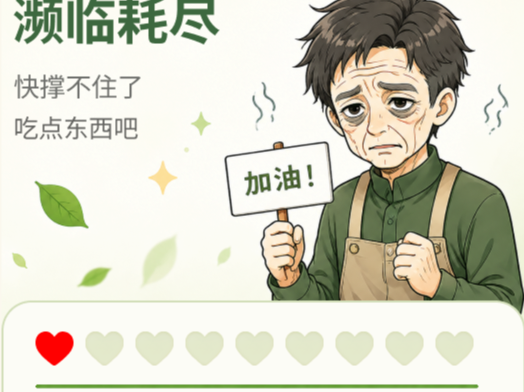
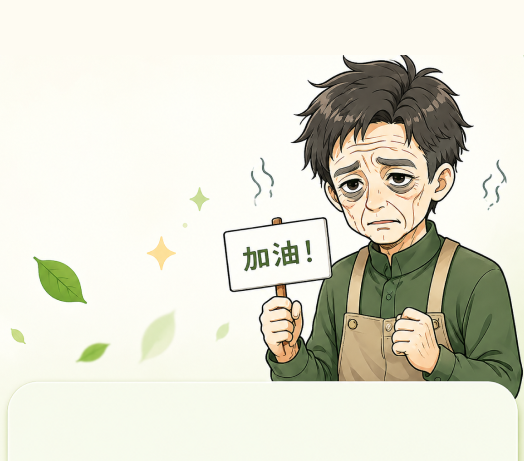
fix(stage2): critical band 专属 ip mascot（524×416 + 加油小牌）

diff --git a/app/src/components/home/HomeStage2.tsx b/app/src/components/home/HomeStage2.tsx
@@ -1,13 +1,13 @@
-import { ScrollView, View, Image, Text } from "react-native";
-import { SafeAreaView } from "react-native-safe-area-context";
-import { useRouter } from "expo-router";
-import { useStore } from "@src/store/useStore";
-import HpHeartsContent from "@src/components/ui/HpHeartsContent";
-import WeightCard from "@src/components/ui/WeightCard";
 import HomeMealStatusSlot from "@src/components/home/HomeMealStatusSlot";
 import HomeRecordsSection from "@src/components/home/HomeRecordsSection";
+import HpHeartsContent from "@src/components/ui/HpHeartsContent";
+import WeightCard from "@src/components/ui/WeightCard";
+import { useStore } from "@src/store/useStore";
 import { getHpBand } from "@src/theme/hp";
 import { colors } from "@src/theme/tokens";
+import { useRouter } from "expo-router";
+import { Image, ScrollView, Text, View } from "react-native";
+import { SafeAreaView } from "react-native-safe-area-context";
 
 // Stage 2 主页（v0.4 §11.B）：状态区 / HP 心形 / 体重 / 倒计时 / 今日记录
 // 本屏纯组装，所有 UI 模块抽到 src/components/ui/。
@@ -40,17 +40,34 @@ export default function HomeStage2() {
             }}
           >
             {/* mascot 缩到原始 90%：宽度 hero 90% + 右下贴底（hero 容器 aspectRatio 不动） */}
-            <Image
-              source={band.mascot}
+            <View
               style={{
                 position: "absolute",
+                left: 0,
                 right: 0,
-                bottom: 0,
-                width: "90%",
-                aspectRatio: band.mascotAspect,
+                top: 0,
+                // bottom: 0,
+                justifyContent: "center",
+                alignItems: "center",
               }}
-              resizeMode="contain"
-            />
+            >
+              <View
+                style={{
+                  width: "100%",
+                  aspectRatio: band.mascotAspect,
+                  transform: [{ translateY: 0 }],
+                }}
+              >
+                <Image
+                  source={band.mascot}
+                  style={{
+                    width: "100%",
+                    height: "100%",
+                  }}
+                  resizeMode="contain"
+                />
+              </View>
+            </View>
             {/* 文字 overlay 左上 */}
             <View
               style={{

diff --git a/app/src/theme/hp.ts b/app/src/theme/hp.ts
@@ -43,7 +43,7 @@ export const HP_BANDS: readonly HpBandSpec[] = [
     min: 0, max: 19, key: "critical",
     title: "濒临耗尽", subtitle: "快撑不住了", hint: "吃点东西吧",
     mascot: require("../../assets/mascot/critical.png"),
-    mascotAspect: 524 / 392, // sips 裁出，Figma 没单独 ip 子组
+    mascotAspect: 524 / 416, // Figma 1:357 专属 ip 子组（hotfix #9 替换）
   },
 ];
 